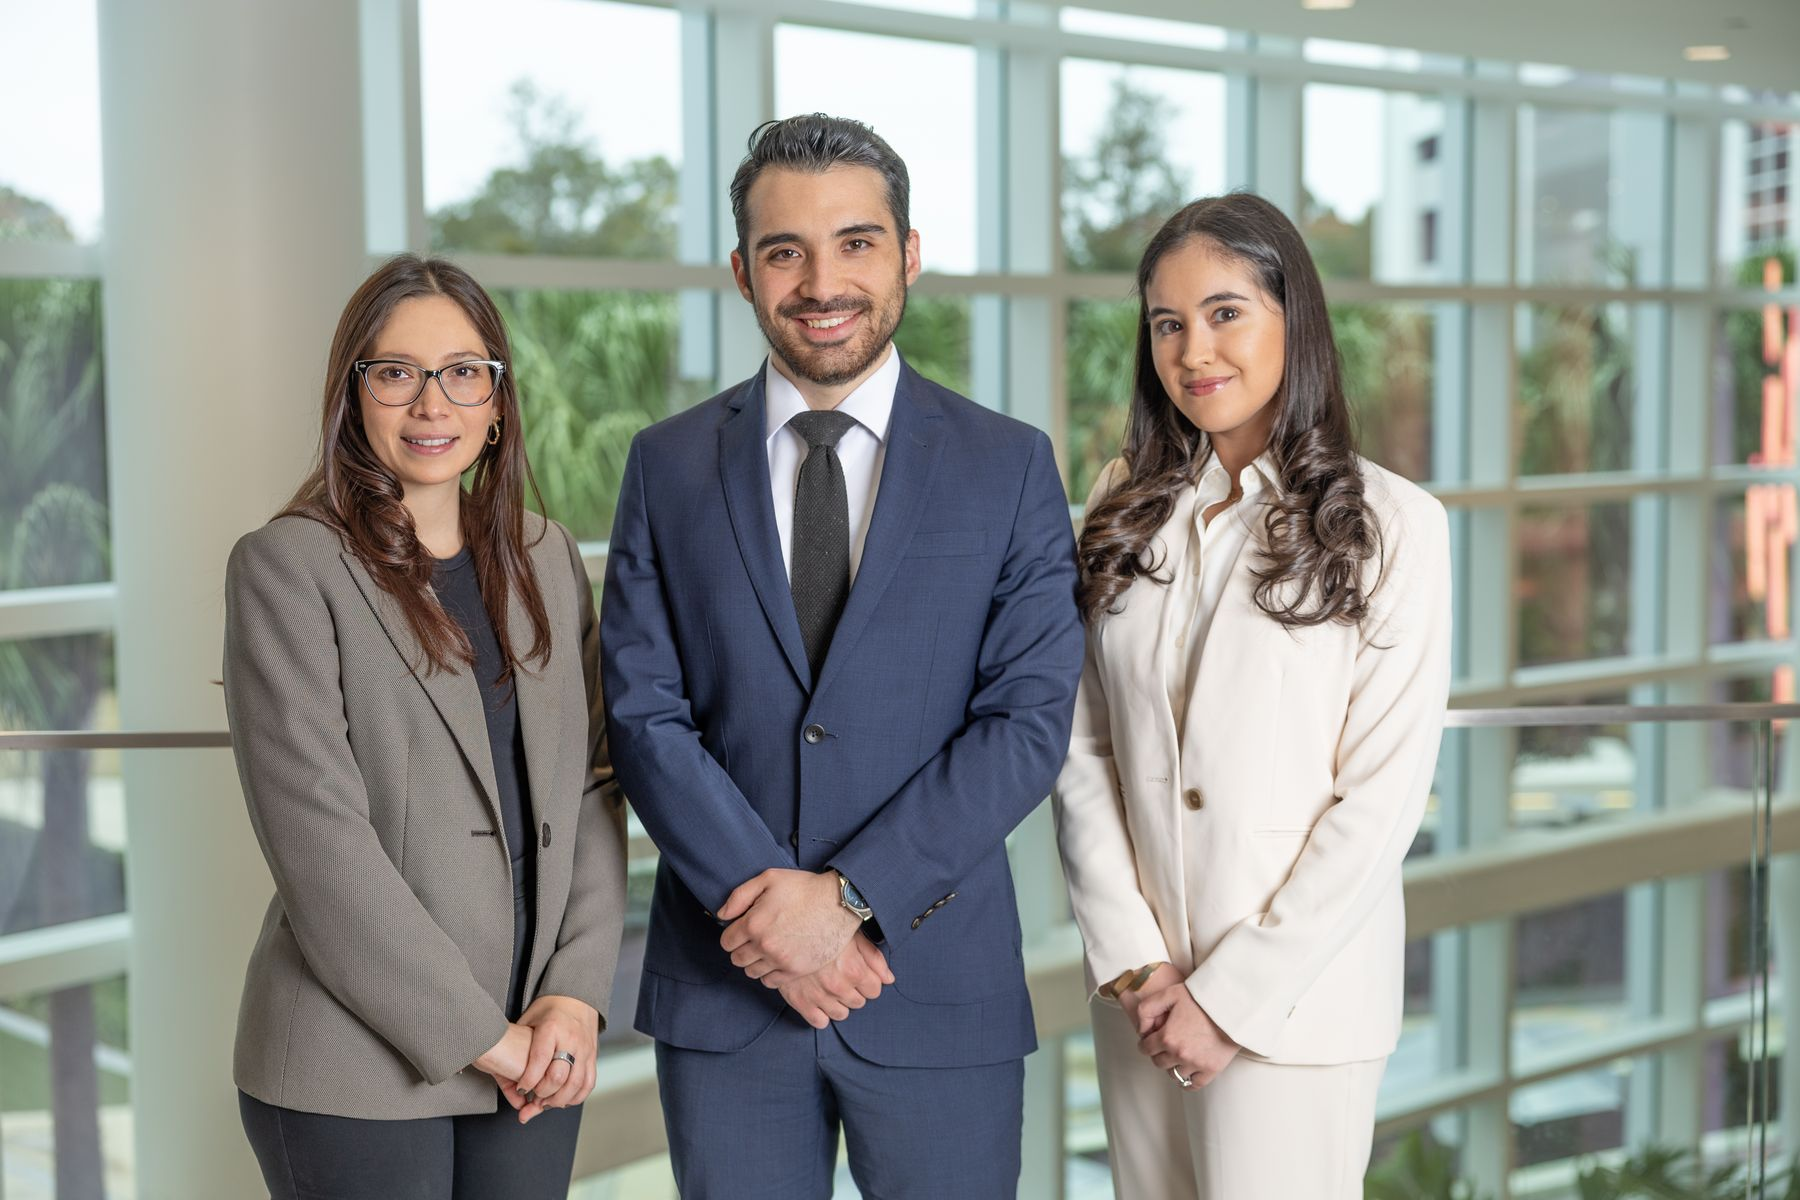
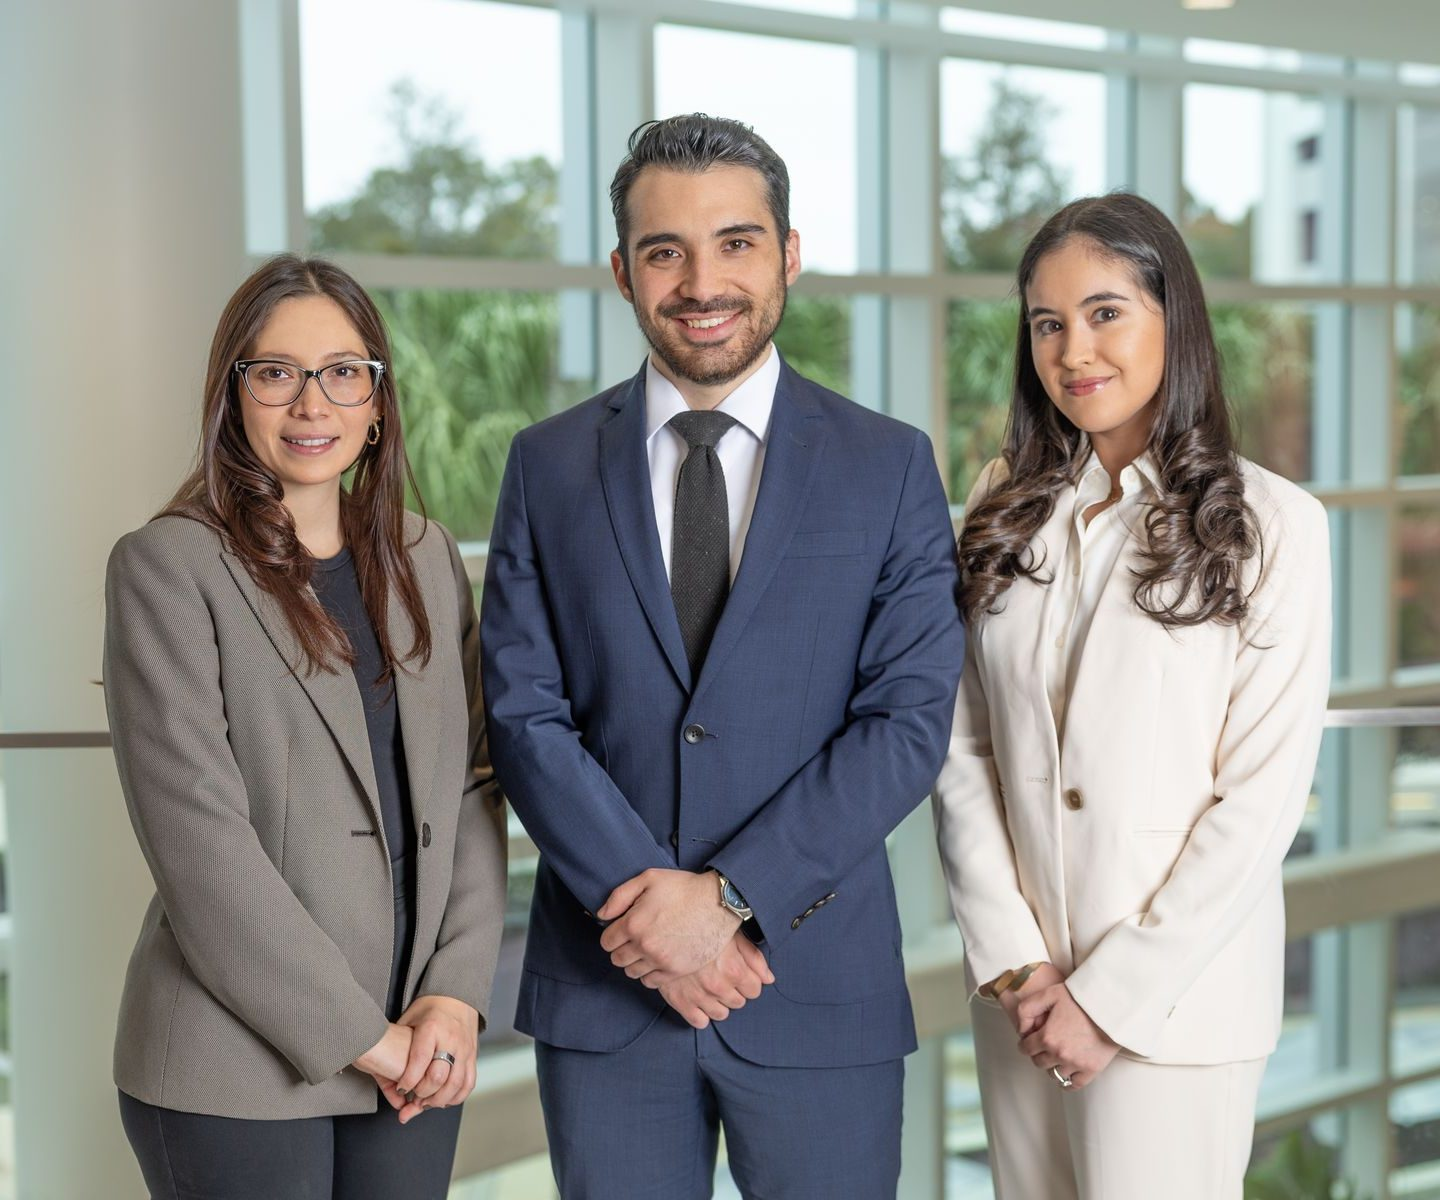
Campus photo slideshow in header; Leadership section with Dean of Research and centered team photo
Claude-Session: https://claude.ai/code/session_01EqLyvBzCrqEtHNZxcfa2pK

diff --git a/index.html b/index.html
@@ -27,11 +27,21 @@
     a { color: var(--blue); }
     :focus-visible { outline:3px solid var(--blue); outline-offset:2px; border-radius:4px; }
     .wrap { max-width:46rem; margin:0 auto; padding:0 1rem; }
-    header { position:relative; color:#fff; background:var(--navy) url("assets/campus-palms.jpg") center 35%/cover; isolation:isolate; }
-    @media (max-width:700px) { header { background-image:url("assets/campus-palms-sm.jpg"); } }
-    header::before { content:""; position:absolute; inset:0; z-index:-1; background:linear-gradient(0deg, rgba(7,26,54,.96) 10%, rgba(1,87,184,.55) 70%, rgba(1,87,184,.2)); }
+    header { position:relative; color:#fff; background:var(--navy); isolation:isolate; overflow:hidden; min-height:min(88vh, 44rem); display:flex; align-items:flex-end; }
+    header > .wrap { width:100%; }
+    .slides { position:absolute; inset:0; z-index:-2; }
+    .slide { position:absolute; inset:0; background-size:cover; background-position:center; opacity:0; transition:opacity 1.6s ease; transform:scale(1.04); }
+    .slide.on { opacity:1; animation:drift 9s ease-out forwards; }
+    @keyframes drift { from { transform:scale(1.08); } to { transform:scale(1.02); } }
+    header::before { content:""; position:absolute; inset:0; z-index:-1; background:linear-gradient(0deg, rgba(7,26,54,.97) 8%, rgba(10,45,92,.6) 45%, rgba(1,87,184,.15) 100%); }
+    .dots { display:flex; gap:.4rem; margin-top:1.5rem; }
+    .dots button { width:.6rem; height:.6rem; border-radius:50%; border:0; padding:0; background:rgba(255,255,255,.4); cursor:pointer; }
+    .dots button[aria-current="true"] { background:#fff; }
+    .slide-cap { font-size:.85rem; color:#bcd3ef; margin-top:.5rem; }
+    @media (prefers-reduced-motion: reduce) { .slide { transition:none; } .slide.on { animation:none; } }
+    .top { position:absolute; top:1.25rem; left:1rem; right:1rem; max-width:44rem; margin:0 auto; }
     .hd { padding:1.25rem 1rem 2.5rem; }
-    .top { display:flex; justify-content:space-between; align-items:center; margin-bottom:5rem; }
+    .top { display:flex; justify-content:space-between; align-items:center; }
     .top img { width:64px; height:64px; }
     .theme-btn { display:inline-flex; align-items:center; gap:.35rem; font:600 .85rem "Atkinson Hyperlegible", sans-serif; color:#fff; background:transparent; border:1px solid rgba(255,255,255,.45); border-radius:999px; padding:.4rem .7rem; min-height:36px; cursor:pointer; }
     .theme-btn .ic { width:1rem; height:1rem; display:none; }
@@ -58,6 +68,18 @@
     @media (prefers-color-scheme: dark) { :root:not([data-theme="light"]) footer img { filter: invert(1); } }
     :root[data-theme="dark"] footer img { filter: invert(1); }
     .gallery-wrap { margin-top:2.5rem; }
+    .lead { margin-top:2.5rem; }
+    .dean { display:grid; grid-template-columns:8rem 1fr; gap:1.1rem; padding:1.1rem; background:var(--surface); border:1px solid var(--line); border-radius:14px; align-items:start; }
+    .dean img { width:8rem; height:8rem; object-fit:cover; border-radius:12px; display:block; }
+    .dean .kicker { margin:0 0 .2rem; font-weight:700; font-size:.85rem; color:var(--blue); }
+    .dean h3 { font-size:1.25rem; }
+    .dean .t { margin:.25rem 0 0; font-weight:700; font-size:.95rem; }
+    .dean .b { margin:.5rem 0 0; color:var(--muted); font-size:.95rem; }
+    @media (max-width:30rem) { .dean { grid-template-columns:1fr; } .dean img { width:9rem; height:9rem; } }
+    .team { margin:1rem 0 0; }
+    .team img { width:100%; height:auto; display:block; border-radius:14px; }
+    .team figcaption { margin-top:.5rem; color:var(--muted); font-size:.92rem; }
+    .team figcaption strong { color:var(--ink); }
     .gallery { list-style:none; margin:0; padding:0; display:grid; grid-template-columns:repeat(auto-fill, minmax(10rem, 1fr)); gap:.6rem; }
     .gallery figure { margin:0; }
     .gallery button { display:block; width:100%; padding:0; border:0; border-radius:10px; overflow:hidden; cursor:zoom-in; background:var(--line); aspect-ratio:4/3; }
@@ -72,6 +94,7 @@
 </head>
 <body>
   <header>
+    <div class="slides" id="slides" aria-hidden="true"></div>
     <div class="wrap hd">
       <div class="top">
         <img src="assets/mayo-clinic-logo-white.svg" alt="Mayo Clinic">
@@ -84,10 +107,27 @@
       </div>
       <h1>Mayo Clinic Research Fellow Association<span>Florida</span></h1>
       <p>Events and programs for research trainees at Mayo Clinic in Florida.</p>
+      <div class="dots" id="dots" role="group" aria-label="Campus photos"></div>
     </div>
   </header>
   <main class="wrap">
     <section aria-labelledby="h-up"><h2 id="h-up">Upcoming</h2><ul class="events" id="upcoming"></ul></section>
+    <section class="lead" aria-labelledby="h-lead">
+      <h2 id="h-lead">Leadership</h2>
+      <article class="dean">
+        <img src="assets/photos/fernandez-bussy.jpg" alt="Sebastian Fernandez-Bussy, MD" width="400" height="400">
+        <div>
+          <p class="kicker">Dean of Research</p>
+          <h3>Sebastian Fernandez-Bussy, MD</h3>
+          <p class="t">James C. and Sarah K. Kennedy Dean of Research, Mayo Clinic in Florida</p>
+          <p class="b">Professor of Medicine and Chair of the Division of Pulmonary, Allergy and Sleep Medicine. An interventional pulmonologist, he leads work in robot-assisted bronchoscopy, minimally invasive therapies for thoracic cancers, and AI-driven biomarkers.</p>
+        </div>
+      </article>
+      <figure class="team">
+        <img src="assets/photos/mrfa-team.jpg" alt="Maria Estevez, Alfredo Verastegui and Regina Castaneda standing together in a bright atrium" width="1440" height="1200" loading="lazy">
+        <figcaption><strong>MRFA Florida team.</strong> Left to right: Maria Estevez; Alfredo Verastegui, MD; and Regina Castaneda, MD, Chair.</figcaption>
+      </figure>
+    </section>
     <section class="gallery-wrap" id="gallery-wrap" hidden aria-labelledby="h-photos"><h2 id="h-photos">Photos</h2><ul class="gallery" id="gallery"></ul></section>
     <section class="past" id="past-wrap" hidden aria-labelledby="h-past"><h2 id="h-past">Past events</h2><ul class="events" id="past"></ul></section>
   </main>
@@ -104,6 +144,27 @@
         <span><h3>${esc(e.title)} <span class="ed">${esc(e.edition || "")}</span></h3>
         <p>${esc(e.dateLabel)}, ${esc(e.place)}</p><p>${esc(e.summary || "")}</p><span class="go">View program, abstracts and speakers</span></span></a></li>`;
     };
+    // Hero slideshow
+    const slides = [
+      { src: "assets/photos/campus-2", cap: "Mayo Clinic in Florida, Jacksonville" },
+      { src: "assets/photos/campus-1", cap: "Mayo Clinic in Florida" },
+      { src: "assets/photos/campus-3", cap: "Mayo Clinic in Florida campus" },
+    ];
+    const small = matchMedia("(max-width: 700px)").matches;
+    const still = matchMedia("(prefers-reduced-motion: reduce)").matches;
+    const box = document.getElementById("slides"), dots = document.getElementById("dots");
+    box.innerHTML = slides.map((s, i) => `<div class="slide${i === 0 ? " on" : ""}" style="background-image:url('${s.src}${small ? "-sm" : ""}.jpg')"></div>`).join("");
+    dots.innerHTML = slides.map((s, i) => `<button type="button" aria-label="Show photo ${i + 1}: ${s.cap}" aria-current="${i === 0}"></button>`).join("");
+    let cur = 0, timer;
+    const show = (i) => {
+      const els = box.children, ds = dots.children;
+      els[cur].classList.remove("on"); ds[cur].setAttribute("aria-current", "false");
+      cur = i; void els[cur].offsetWidth; els[cur].classList.add("on"); ds[cur].setAttribute("aria-current", "true");
+    };
+    const start = () => { if (!still) timer = setInterval(() => show((cur + 1) % slides.length), 7000); };
+    dots.addEventListener("click", (e) => { const b = e.target.closest("button"); if (!b) return; clearInterval(timer); show([...dots.children].indexOf(b)); start(); });
+    start();
+
     fetch("photos.json?v=" + Date.now(), { cache: "no-store" }).then((r) => r.json()).then(({ photos }) => {
       if (!photos || !photos.length) return;
       document.getElementById("gallery-wrap").hidden = false;

diff --git a/README.md b/README.md
@@ -7,7 +7,10 @@ Landing page for the Mayo Clinic Research Fellow Association (MRFA), Florida: ht
 2. Add an entry to `events.json` here with the date and `"url": "research-day-2027/"`.
 Events move from **Upcoming** to **Past events** automatically after their date.
 
-## Adding photos
+## Header slideshow
+The campus photos rotating behind the header are listed in `index.html` (search for `Hero slideshow`). Each photo needs a full version (`name.jpg`, ~1800 px) and a phone version (`name-sm.jpg`, ~1000 px) in `assets/photos/`.
+
+## Adding photos (gallery)
 1. Upload photos to `assets/photos/` (Add file → Upload files). Keep them under ~500 KB (about 1800 px wide); ask Claude to resize large camera files. An optional `"thumb"` (about 640 px) loads in the grid, and the full photo opens on tap.
 2. Add one line per photo to `photos.json`, for example:
 ```json
